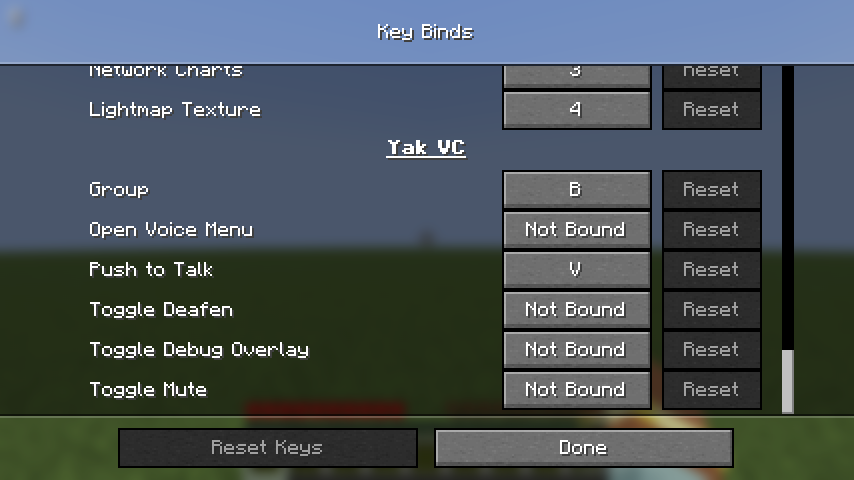
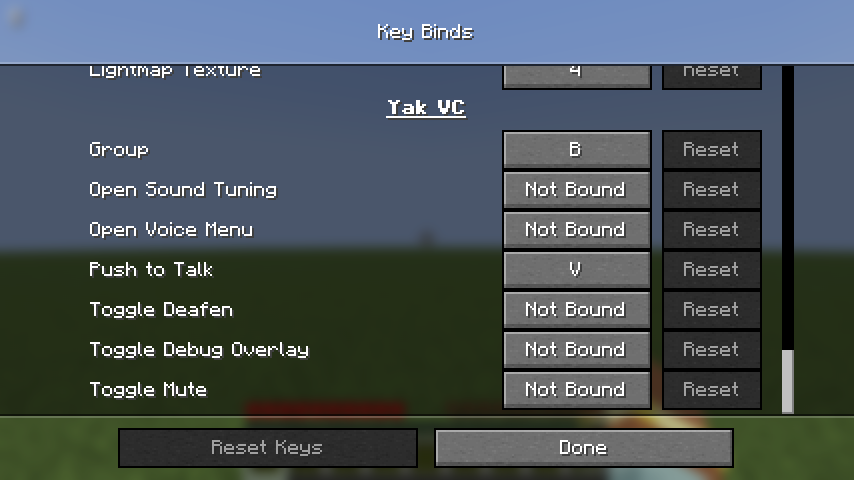
A key that opens Sound Tuning from the game
Unbound by default like the other utility keys. It opens the screen with no
parent so Done returns to the game, for tuning acoustics while someone talks.

diff --git a/mod/src/main/java/io/github/desocketed/yakvc/input/VoiceKeys.java b/mod/src/main/java/io/github/desocketed/yakvc/input/VoiceKeys.java
@@ -7,7 +7,8 @@ import net.minecraft.resources.Identifier;
 
 /**
  * Voice keybinds. Push-to-talk defaults to V and Group to B, which vanilla doesn't use. Mute, deafen and the voice
- * menu are unbound by default so they don't clash with minimap and utility mods; so is the debug overlay.
+ * menu are unbound by default so they don't clash with minimap and utility mods; so are the debug overlay and sound
+ * tuning.
  */
 public final class VoiceKeys {
 	/** Holds push-to-talk down for dev and test runs that have no keyboard. */
@@ -20,17 +21,20 @@ public final class VoiceKeys {
 	public final KeyMapping deafen;
 	public final KeyMapping openMenu;
 	public final KeyMapping debugOverlay;
+	/** Opens Sound Tuning straight from the game, so acoustics can be tuned while someone talks. */
+	public final KeyMapping soundTuning;
 	private boolean muted;
 	private boolean deafened;
 
 	private VoiceKeys(KeyMapping pushToTalk, KeyMapping group, KeyMapping mute, KeyMapping deafen,
-			KeyMapping openMenu, KeyMapping debugOverlay) {
+			KeyMapping openMenu, KeyMapping debugOverlay, KeyMapping soundTuning) {
 		this.pushToTalk = pushToTalk;
 		this.group = group;
 		this.mute = mute;
 		this.deafen = deafen;
 		this.openMenu = openMenu;
 		this.debugOverlay = debugOverlay;
+		this.soundTuning = soundTuning;
 	}
 
 	public static VoiceKeys register() {
@@ -47,7 +51,9 @@ public final class VoiceKeys {
 				KeyMappingHelper.registerKeyMapping(
 						new KeyMapping("key.yakvc.open_menu", InputConstants.UNKNOWN.getValue(), category)),
 				KeyMappingHelper.registerKeyMapping(
-						new KeyMapping("key.yakvc.debug_overlay", InputConstants.UNKNOWN.getValue(), category)));
+						new KeyMapping("key.yakvc.debug_overlay", InputConstants.UNKNOWN.getValue(), category)),
+				KeyMappingHelper.registerKeyMapping(
+						new KeyMapping("key.yakvc.sound_tuning", InputConstants.UNKNOWN.getValue(), category)));
 	}
 
 	/** Applies mute and deafen presses since the last tick. */
@@ -59,6 +65,11 @@ public final class VoiceKeys {
 	/** Whether the debug overlay key was pressed since the last call. */
 	public boolean debugOverlayPressed() {
 		return pressed(debugOverlay);
+	}
+
+	/** Whether the sound tuning key was pressed since the last call. */
+	public boolean soundTuningPressed() {
+		return pressed(soundTuning);
 	}
 
 	/** Whether the voice menu key was pressed since the last call. */

diff --git a/mod/src/main/java/io/github/desocketed/yakvc/GameStateFeeder.java b/mod/src/main/java/io/github/desocketed/yakvc/GameStateFeeder.java
@@ -17,6 +17,7 @@ import io.github.desocketed.yakvc.natives.VoiceStats;
 import io.github.desocketed.yakvc.natives.YakVcException;
 import io.github.desocketed.yakvc.ui.EngineErrorToasts;
 import io.github.desocketed.yakvc.ui.GroupChat;
+import io.github.desocketed.yakvc.ui.SoundTuningScreen;
 import io.github.desocketed.yakvc.ui.VoiceMenuScreen;
 import io.github.desocketed.yakvc.ui.VoiceToasts;
 import java.lang.foreign.MemorySegment;
@@ -224,6 +225,9 @@ public final class GameStateFeeder {
 		if (keys.debugOverlayPressed()) setDebugOverlay(!debugOverlay);
 		if (keys.menuPressed() && minecraft.gui.screen() == null) {
 			minecraft.gui.setScreen(new VoiceMenuScreen(null, this));
+		}
+		if (keys.soundTuningPressed() && minecraft.gui.screen() == null) {
+			minecraft.gui.setScreen(new SoundTuningScreen(null, minecraft.options, this));
 		}
 		VoiceSession session = this.session;
 		step(() -> feedIdentity(minecraft, session));

diff --git a/docs/USER_GUIDE.md b/docs/USER_GUIDE.md
@@ -45,8 +45,9 @@ The keys are in Options → Controls → Key Binds, under **Yak VC**.
 | Toggle Deafen | not bound | Stops you hearing anyone. Your microphone still works unless you mute it too. |
 | Open Voice Menu | not bound | Opens the [voice menu](#the-voice-menu), and from there the settings. The pause menu has a button for it too. |
 | Toggle Debug Overlay | not bound | Shows or hides the [debug overlay](#the-debug-overlay). |
+| Open Sound Tuning | not bound | Opens [Sound Tuning](#sound-tuning) straight from the game, handy while someone talks. |
 
-Mute, deafen, the voice menu and the debug overlay are unbound so they don't clash with other mods. The settings are always reachable without a key, from **Voice Chat…** in the game's Music & Sounds options (see [Settings](#settings)).
+Mute, deafen, the voice menu, the debug overlay and sound tuning are unbound so they don't clash with other mods. The settings are always reachable without a key, from **Voice Chat…** in the game's Music & Sounds options (see [Settings](#settings)).
 
 ## The HUD
 
